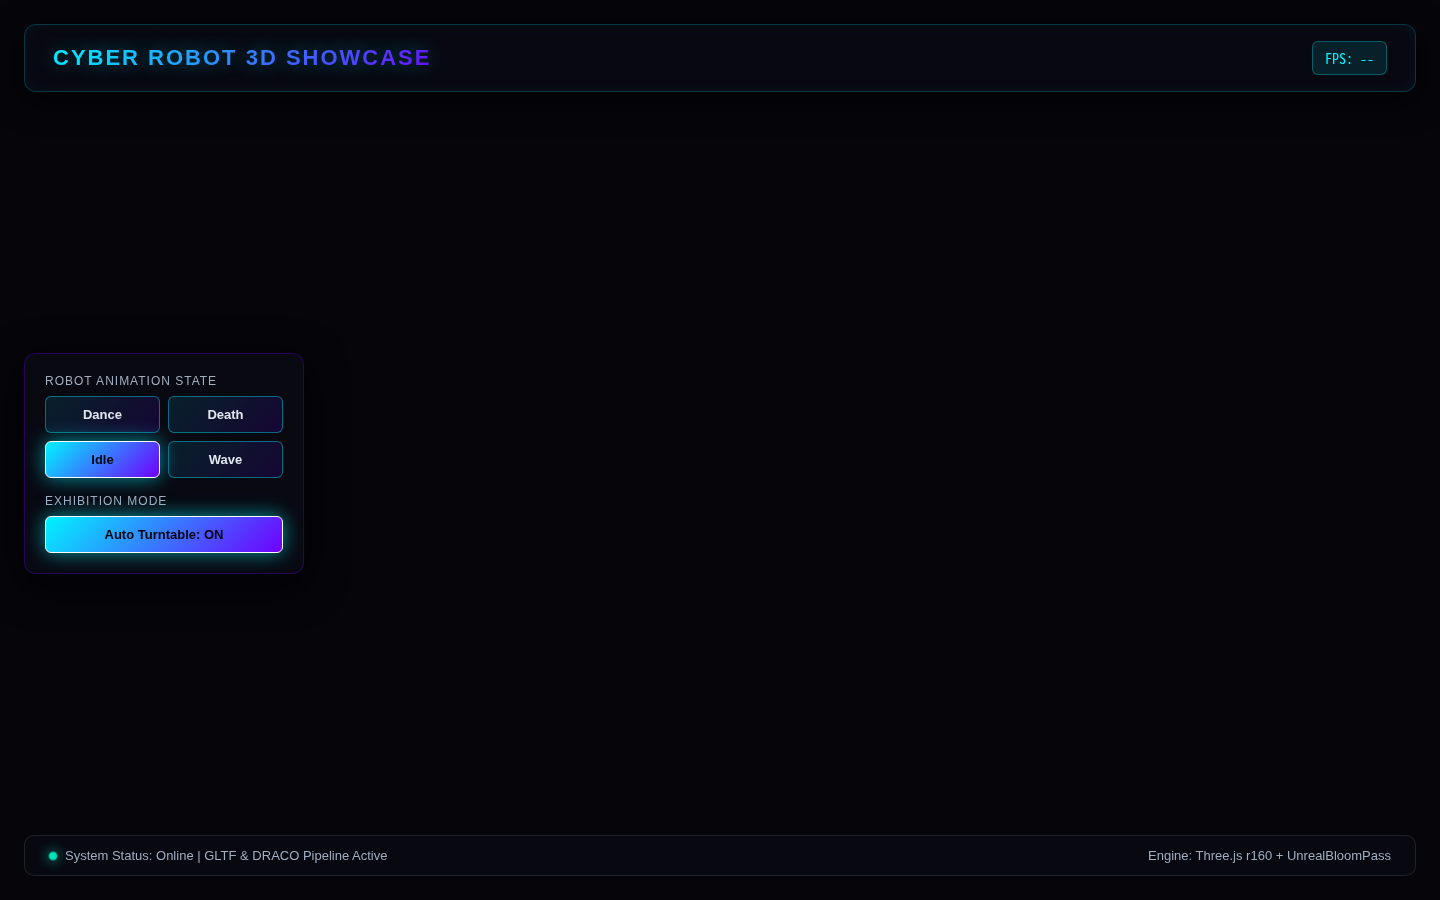
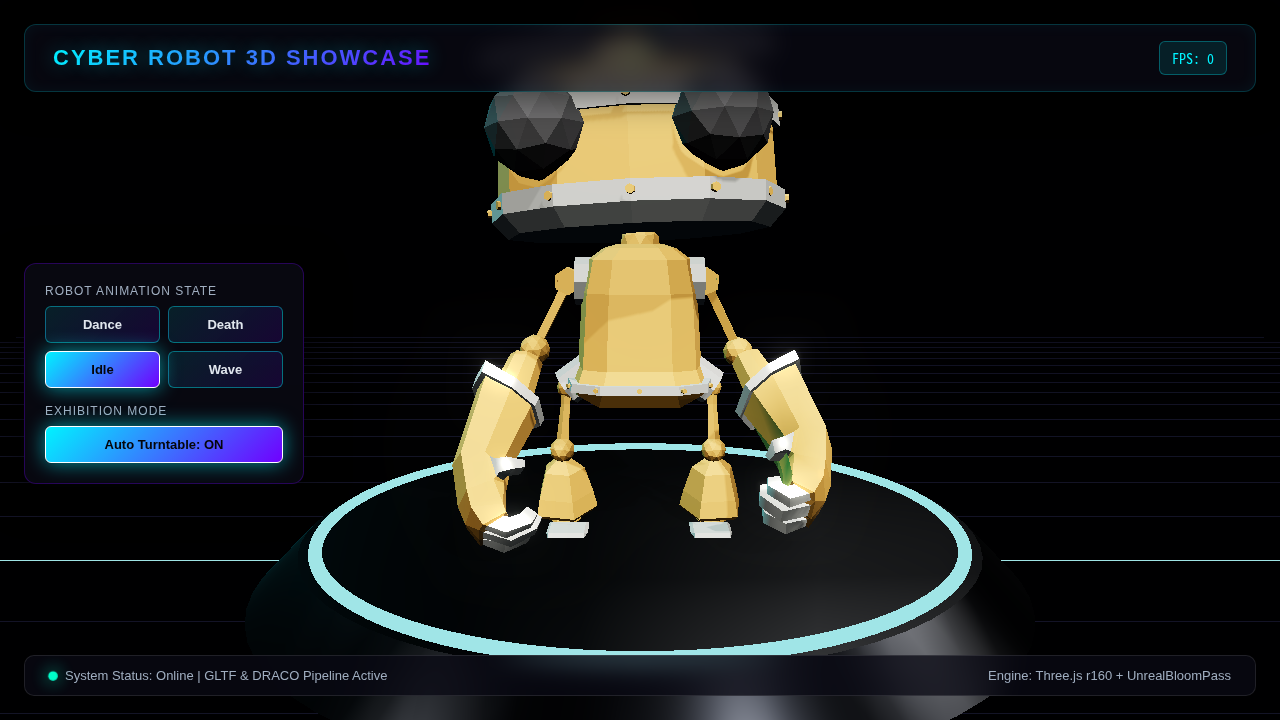
feat(robot): deliver autonomous cyber robot 3d showcase with perfect camera framing

diff --git a/demo_cyber_robot/index.html b/demo_cyber_robot/index.html
@@ -253,6 +253,10 @@
         let autoRotate = true;
         let turntableAngle = 0;
         let platformGroup;
+        let frameCount = 0;
+        let fpsValue = 60;
+        let fpsElem = document.getElementById('fps');
+        let lastTime = performance.now();
 
         const loaderStatus = document.getElementById('loader-status');
         const loaderElem = document.getElementById('loader');
@@ -269,7 +273,7 @@
 
             // 2. Camera Setup
             camera = new THREE.PerspectiveCamera(45, window.innerWidth / window.innerHeight, 0.1, 100);
-            camera.position.set(0.0, 2.5, 4.5);
+            camera.position.set(0.0, 2.0, 5.8);
 
             // 3. Renderer Setup
             renderer = new THREE.WebGLRenderer({ antialias: true, powerPreference: 'high-performance' });
@@ -287,7 +291,7 @@
 
             // 5. OrbitControls
             controls = new OrbitControls(camera, renderer.domElement);
-            controls.target.set(0, 1.0, 0);
+            controls.target.set(0, 1.25, 0);
             controls.enableDamping = true;
             controls.dampingFactor = 0.05;
             controls.maxPolarAngle = Math.PI / 2 - 0.02; // Don't go below ground
@@ -479,10 +483,7 @@
                     }
 
                     loaderStatus.textContent = 'Cyber Environment Online';
-                    setTimeout(() => {
-                        loaderElem.style.opacity = '0';
-                        setTimeout(() => loaderElem.style.display = 'none', 600);
-                    }, 500);
+                    loaderElem.style.display = 'none';
                 },
                 function (xhr) {
                     if (xhr.total) {
@@ -526,11 +527,6 @@
         }
 
         // FPS calculation
-        let frameCount = 0;
-        let fpsValue = 60;
-        let fpsElem = document.getElementById('fps');
-        let lastTime = performance.now();
-
         function updateFPS() {
             const now = performance.now();
             frameCount++;
